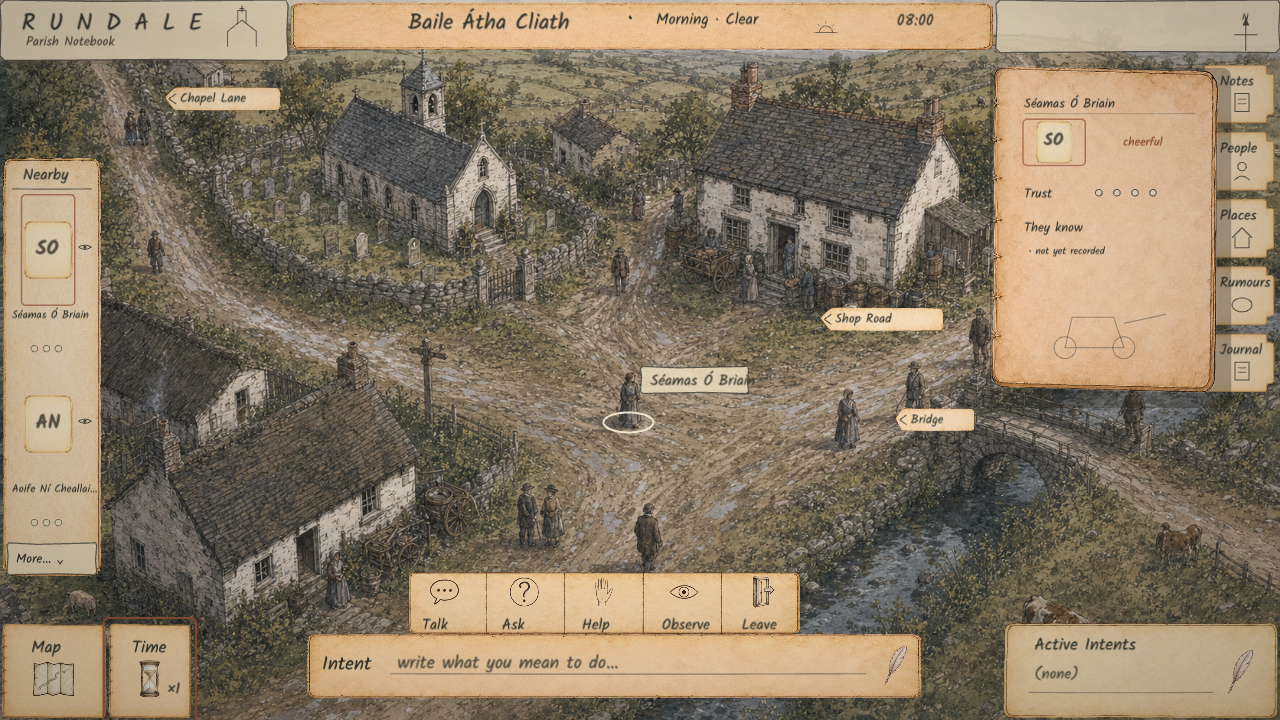
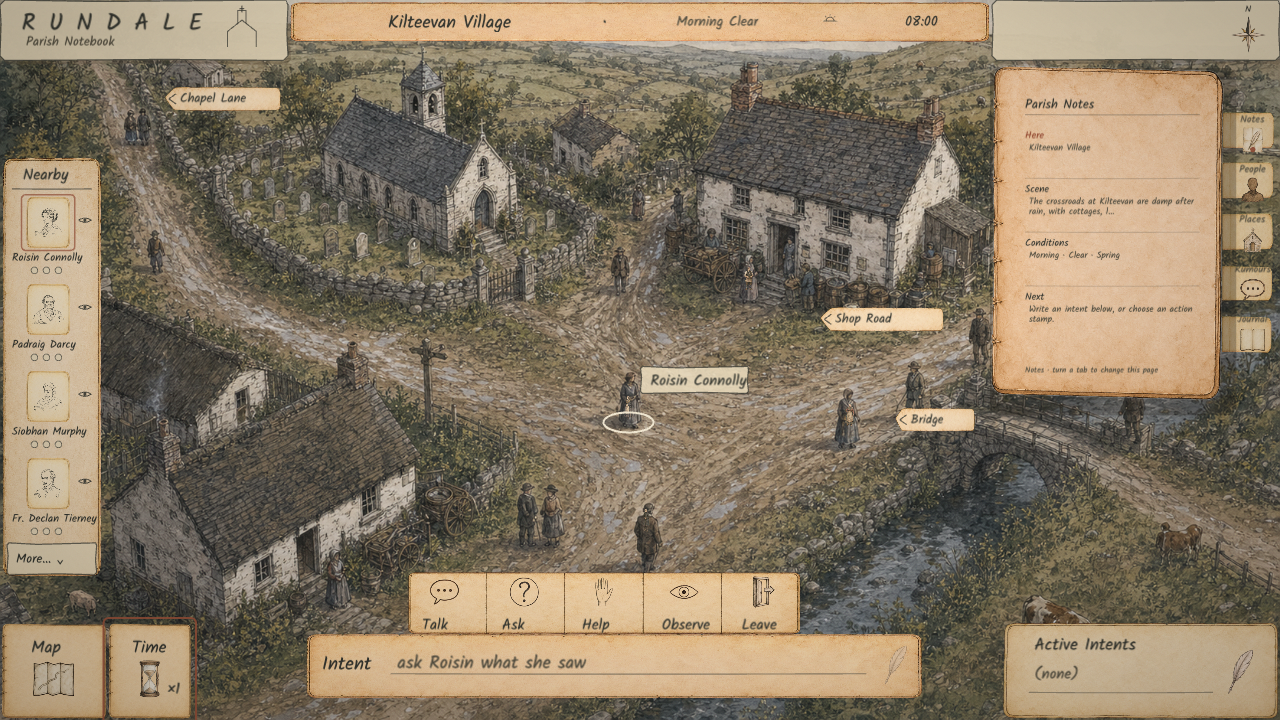
fix(ui): show production raster and NPC art in canonical screenshots (#1795)
* chore: codify event-driven improvement drain

* chore: format portfolio documentation

* fix: parse multiline unblock triggers

* fix(ui): prove production raster art in screenshots

* fix: restore screenshot harness quality gates

---------

diff --git a/parish/apps/ui/e2e/notebook-raster-icons-proof.spec.ts b/parish/apps/ui/e2e/notebook-raster-icons-proof.spec.ts
@@ -1,0 +1,176 @@
+import type { Page } from '@playwright/test';
+import { PNG } from 'pngjs';
+import {
+	expect,
+	installTauriMock,
+	test,
+	waitForTextureCompleteNotebookFrame,
+} from './fixtures';
+
+const PIXI_CANVAS = '[data-testid="illustrated-notebook-pixi-host"] canvas';
+// The bottom vignette intentionally darkens the Map card by roughly 20%.
+// Keep the tolerance bounded well below the distances between sentinel colors.
+const COLOR_TOLERANCE = 64;
+
+type Rgb = readonly [number, number, number];
+
+interface RasterSentinel {
+	assetUrl: string;
+	targetName: string;
+	color: Rgb;
+}
+
+const RASTER_SENTINELS: readonly RasterSentinel[] = [
+	{
+		assetUrl: '/rundale/illustrated-notebook-v2/icon-ask.png',
+		targetName: 'Ask action',
+		color: [251, 17, 183],
+	},
+	{
+		assetUrl: '/rundale/illustrated-notebook-v2/icon-tab-notes.png',
+		targetName: 'Open Notes notebook tab',
+		color: [17, 241, 47],
+	},
+	{
+		assetUrl: '/rundale/illustrated-notebook-v2/icon-map.png',
+		targetName: 'Open parish map',
+		color: [19, 73, 251],
+	},
+] as const;
+
+function solidPng(color: Rgb): Buffer {
+	const image = new PNG({ width: 32, height: 32 });
+	for (let index = 0; index < image.data.length; index += 4) {
+		image.data[index] = color[0];
+		image.data[index + 1] = color[1];
+		image.data[index + 2] = color[2];
+		image.data[index + 3] = 255;
+	}
+	return PNG.sync.write(image);
+}
+
+async function installRasterSentinels(
+	page: Page,
+): Promise<Map<string, number>> {
+	const requestCounts = new Map(
+		RASTER_SENTINELS.map(({ assetUrl }) => [assetUrl, 0]),
+	);
+
+	for (const sentinel of RASTER_SENTINELS) {
+		const body = solidPng(sentinel.color);
+		await page.route(`**${sentinel.assetUrl}`, (route) => {
+			requestCounts.set(
+				sentinel.assetUrl,
+				(requestCounts.get(sentinel.assetUrl) ?? 0) + 1,
+			);
+			return route.fulfill({
+				status: 200,
+				contentType: 'image/png',
+				body,
+			});
+		});
+	}
+
+	return requestCounts;
+}
+
+function isNearColor(pixels: Buffer, index: number, color: Rgb): boolean {
+	return (
+		pixels[index + 3] >= 240 &&
+		Math.abs(pixels[index] - color[0]) <= COLOR_TOLERANCE &&
+		Math.abs(pixels[index + 1] - color[1]) <= COLOR_TOLERANCE &&
+		Math.abs(pixels[index + 2] - color[2]) <= COLOR_TOLERANCE
+	);
+}
+
+async function expectSentinelsInsideSemanticTargets(page: Page): Promise<void> {
+	const canvas = page.locator(PIXI_CANVAS);
+	const canvasBox = await canvas.boundingBox();
+	if (!canvasBox) throw new Error('Pixi canvas has no layout bounds');
+
+	const screenshot = PNG.sync.read(await canvas.screenshot());
+	const scaleX = screenshot.width / canvasBox.width;
+	const scaleY = screenshot.height / canvasBox.height;
+
+	for (const sentinel of RASTER_SENTINELS) {
+		const target = page.getByRole('button', {
+			name: sentinel.targetName,
+			exact: true,
+		});
+		await expect(target).toHaveCount(1);
+		const targetBox = await target.boundingBox();
+		if (!targetBox) {
+			throw new Error(`${sentinel.targetName} has no semantic target bounds`);
+		}
+
+		const left = Math.max(0, Math.floor((targetBox.x - canvasBox.x) * scaleX));
+		const top = Math.max(0, Math.floor((targetBox.y - canvasBox.y) * scaleY));
+		const right = Math.min(
+			screenshot.width,
+			Math.ceil((targetBox.x + targetBox.width - canvasBox.x) * scaleX),
+		);
+		const bottom = Math.min(
+			screenshot.height,
+			Math.ceil((targetBox.y + targetBox.height - canvasBox.y) * scaleY),
+		);
+		const regionPixels = Math.max(0, right - left) * Math.max(0, bottom - top);
+		expect(
+			regionPixels,
+			`${sentinel.targetName} must overlap the Pixi canvas`,
+		).toBeGreaterThan(0);
+
+		let matchingPixels = 0;
+		let nearestColor: Rgb = [0, 0, 0];
+		let nearestDelta = Number.POSITIVE_INFINITY;
+		for (let y = top; y < bottom; y += 1) {
+			for (let x = left; x < right; x += 1) {
+				const index = (y * screenshot.width + x) * 4;
+				if (isNearColor(screenshot.data, index, sentinel.color)) {
+					matchingPixels += 1;
+				}
+				if (screenshot.data[index + 3] >= 240) {
+					const candidate: Rgb = [
+						screenshot.data[index],
+						screenshot.data[index + 1],
+						screenshot.data[index + 2],
+					];
+					const delta = Math.max(
+						Math.abs(candidate[0] - sentinel.color[0]),
+						Math.abs(candidate[1] - sentinel.color[1]),
+						Math.abs(candidate[2] - sentinel.color[2]),
+					);
+					if (delta < nearestDelta) {
+						nearestDelta = delta;
+						nearestColor = candidate;
+					}
+				}
+			}
+		}
+
+		expect(
+			matchingPixels,
+			`${sentinel.assetUrl} must be painted inside "${sentinel.targetName}" (nearest opaque pixel: rgb(${nearestColor.join(', ')}), max-channel delta ${nearestDelta})`,
+		).toBeGreaterThan(Math.max(24, Math.floor(regionPixels * 0.02)));
+	}
+}
+
+test('Pixi paints v2 raster icons inside their semantic controls', async ({
+	page,
+}) => {
+	await page.setViewportSize({ width: 1280, height: 800 });
+	const requestCounts = await installRasterSentinels(page);
+	await installTauriMock(page, 'morning');
+
+	await page.goto('/');
+	await page.waitForLoadState('networkidle');
+	await expect(page.locator(PIXI_CANVAS)).toBeVisible();
+	await waitForTextureCompleteNotebookFrame(page);
+
+	for (const { assetUrl } of RASTER_SENTINELS) {
+		expect(
+			requestCounts.get(assetUrl),
+			`${assetUrl} must be requested by the active renderer`,
+		).toBeGreaterThan(0);
+	}
+	await expectSentinelsInsideSemanticTargets(page);
+});

diff --git a/parish/apps/ui/e2e/screenshots.spec.ts b/parish/apps/ui/e2e/screenshots.spec.ts
@@ -15,13 +15,52 @@ import {
 } from './fixtures';
 import type { Page } from '@playwright/test';
 import { PALETTES, SNAPSHOTS } from './mock-data';
+import type { NpcInfo } from '../src/lib/types';
 import * as path from 'path';
 import { fileURLToPath } from 'url';
 
 const __dirname = path.dirname(fileURLToPath(import.meta.url));
 const TIMES_OF_DAY = ['morning', 'midday', 'dusk', 'night'] as const;
-// Path is relative to apps/ui/e2e/screenshots.spec.ts → repo root → docs/screenshots/.
+// Path is relative to apps/ui/e2e/screenshots.spec.ts → parish/docs/screenshots/.
 const SCREENSHOT_DIR = path.resolve(__dirname, '../../../docs/screenshots');
+const SCREENSHOT_NPCS: NpcInfo[] = [
+	{
+		npc_id: 4,
+		name: 'Roisin Connolly',
+		real_name: 'Roisin Connolly',
+		occupation: 'Shopkeeper',
+		mood: 'wary',
+		introduced: true,
+		mood_emoji: '•',
+	},
+	{
+		npc_id: 1,
+		name: 'Padraig Darcy',
+		real_name: 'Padraig Darcy',
+		occupation: 'Publican',
+		mood: 'content',
+		introduced: true,
+		mood_emoji: '•',
+	},
+	{
+		npc_id: 2,
+		name: 'Siobhan Murphy',
+		real_name: 'Siobhan Murphy',
+		occupation: 'Farmer',
+		mood: 'determined',
+		introduced: true,
+		mood_emoji: '•',
+	},
+	{
+		npc_id: 3,
+		name: 'Fr. Declan Tierney',
+		real_name: 'Fr. Declan Tierney',
+		occupation: 'Parish Priest',
+		mood: 'contemplative',
+		introduced: true,
+		mood_emoji: '•',
+	},
+];
 
 async function expectRenderedNotebookScreenshot(
 	page: Page,
@@ -74,7 +113,16 @@ async function setupScreenshotPage(
 	page: Page,
 	time: (typeof TIMES_OF_DAY)[number],
 ): Promise<void> {
-	await installTauriMock(page, time);
+	await installTauriMock(page, time, {
+		npcs: SCREENSHOT_NPCS,
+		snapshot: {
+			...SNAPSHOTS[time],
+			location_name: 'Kilteevan Village',
+			location_description:
+				'The crossroads at Kilteevan are damp after rain, with cottages, low walls, and neighbours moving through the morning.',
+			name_hints: [],
+		},
+	});
 	await page.goto('/');
 	await page.waitForLoadState('networkidle');
 
@@ -87,6 +135,12 @@ async function setupScreenshotPage(
 	);
 	await expect(
 		page.getByRole('button', { name: 'Ask action', exact: true }),
+	).toHaveCount(1);
+	await expect(
+		page.getByRole('button', {
+			name: 'Select nearby person Roisin Connolly',
+			exact: true,
+		}),
 	).toHaveCount(1);
 	await applyTheme(page, PALETTES[time]);
 

diff --git a/parish/crates/parish-tauri/src/commands/screenshot.rs b/parish/crates/parish-tauri/src/commands/screenshot.rs
@@ -920,10 +920,10 @@ pub async fn notify_screenshot_started(
     state: tauri::State<'_, Arc<AppState>>,
 ) -> Result<(), String> {
     let mut pending = state.pending_screenshots.lock().await;
-    if let Some(request) = pending.get_mut(&request_id) {
-        if let Some(tx) = request.started.take() {
-            let _ = tx.send(());
-        }
+    if let Some(request) = pending.get_mut(&request_id)
+        && let Some(tx) = request.started.take()
+    {
+        let _ = tx.send(());
     }
     Ok(())
 }

diff --git a/LEARNINGS.md b/LEARNINGS.md
@@ -197,4 +197,5 @@ bottom; don't lengthen items past 2-3 lines.
 - **Root `just check` does not run `just lint-shell`, and Windows repository text uses CRLF.** Run the shell gate after editing `.sh` files, and make repository-text sensors accept both `\n` and `\r\n` rather than assuming the checkout's line endings.
 - **A stream flush must consume the triggering action key.** `flushStream` can synchronously clear `$streamingActive`; returning control to generic key dispatch then turns the same ArrowUp/ArrowDown into command-history navigation. Treat the first non-modifier after streaming as a flush-only event and test it alongside history.
 - **Illustrated-notebook acceptance tests can be functionally green while the interaction model is incoherent.** The #1630 tests deliberately asserted that tabs route to overlays without resizing Pixi, but did not test whether a tab’s content belongs in the notebook or whether semantically distinct controls lead to distinct destinations. Run the [live UX audit prompt](.github/prompts/rundale-illustrated-notebook-ux-audit.prompt.md) for player-facing notebook work; a modal opening is not proof that the interaction makes sense.
+- **Canonical notebook screenshots must use approved Rundale NPC identities.** The default E2E NPCs are invented and exercise fallback art; `screenshots.spec.ts` writes `parish/docs/screenshots/`, while the README hero is the separate `docs/screenshots/rundale.png` artifact.
 - **Screenshot-capable Tauri runs use the static graphical harness launcher.** Invoke `bash parish/scripts/launch-tauri-screenshottable.sh 3030`; it builds the current worktree UI, forces Tauri to load static assets, uses a worktree-local Cargo target, and remains the owning foreground process. Do not use a detached Vite sidecar for graphical QA.
